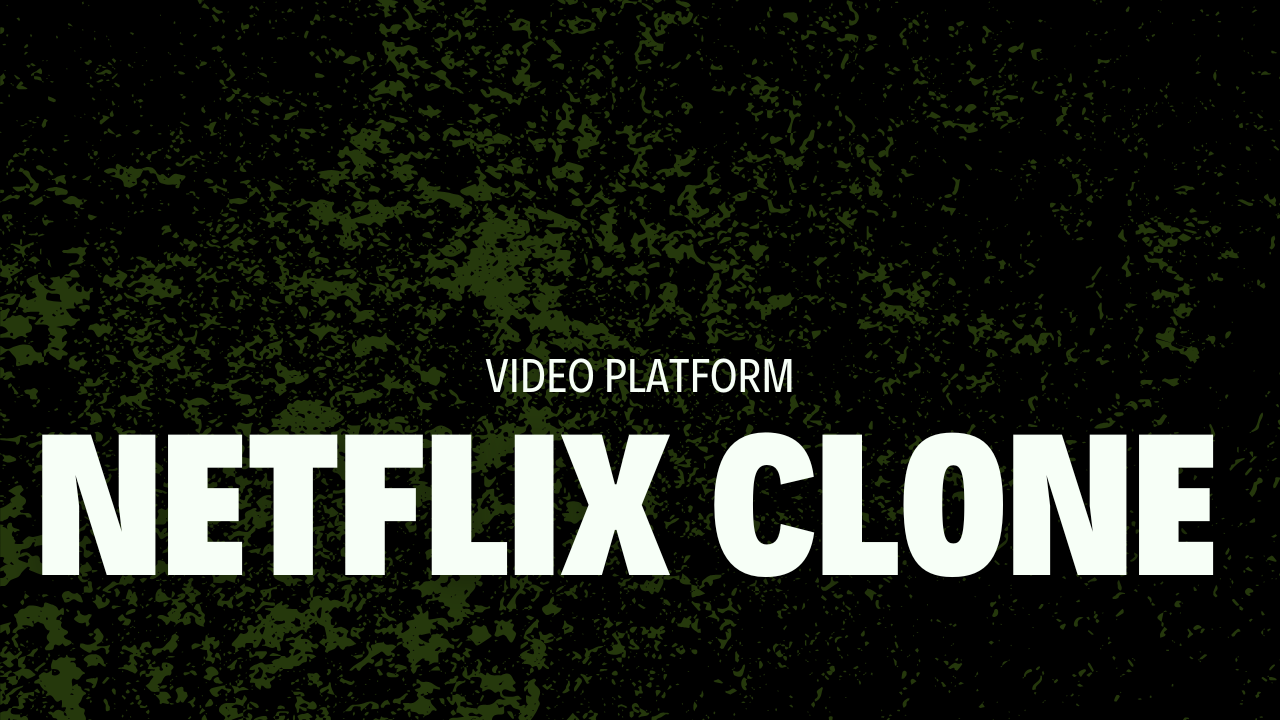
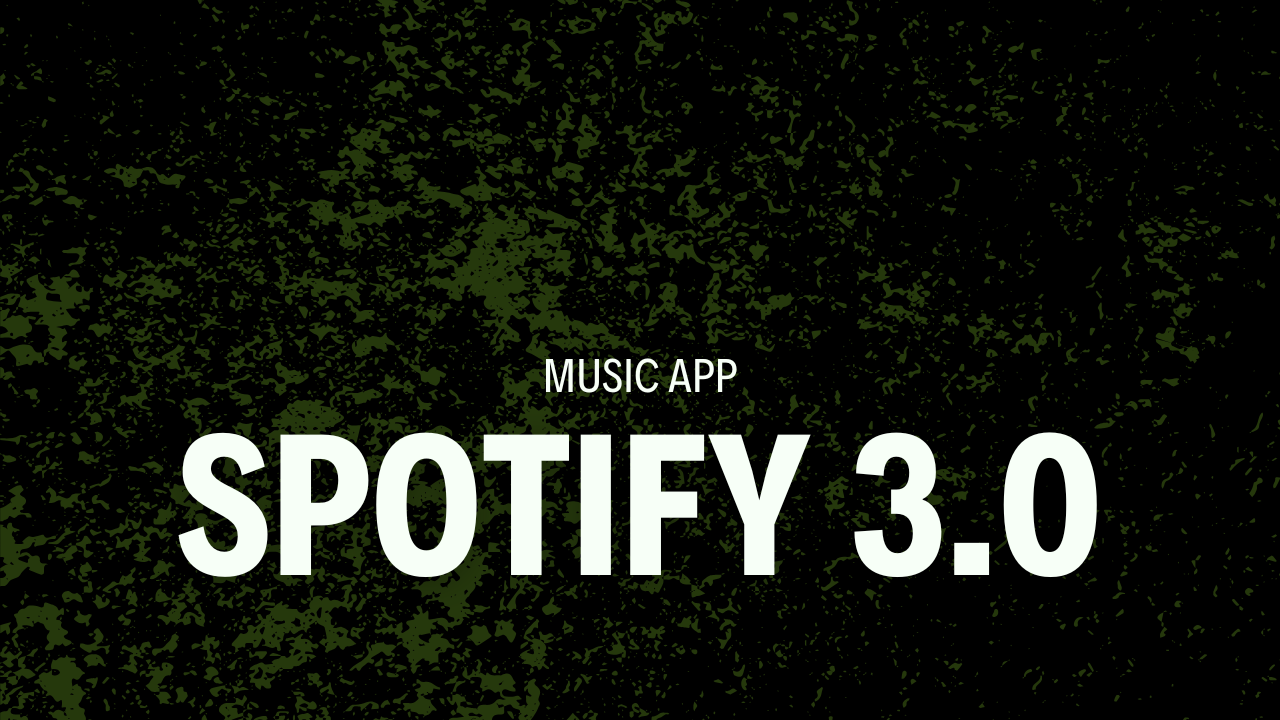
change image + card description in projects, and things in footer

Changed region(s): [[0.0312, 0.5806, 0.9688, 0.825], [0.375, 0.4889, 0.625, 0.55]]

diff --git a/data/index.ts b/data/index.ts
@@ -91,8 +91,8 @@ export const projects = [
   },
   {
     id: 3,
-    title: "Series | Films | Documentaries",
-    des: "Stream your favorite movies and shows anytime, anywhere, with a seamless, personalized viewing experience.",
+    title: "Spotify Clone",
+    des: "Enjoy your favorite lyrics, songs and artists anytime, anywhere, with a seamless, personalized viewing experience.",
     img: "/project3.png",
     iconLists: ["/re.svg", "/tail.svg", "/ts.svg", "/node.svg"],
     link: "https://github.com/EzequielMadrid",

diff --git a/components/Footer.tsx b/components/Footer.tsx
@@ -24,7 +24,7 @@ const Footer = () => {
       </div>
       <div className="flex mt-16 md:flex-row flex-col justify-between items-center">
         <p className="md:text-base text-sm md:font-normal font-light">
-          Copyright © 2030 Ezequiel Madrid, ARG
+          Copyright © 2084 Ezequiel Madrid
         </p>
         <div className="mt-4 flex items-center md:gap-3 gap-6">
           {socialMedia.map((info) => (
